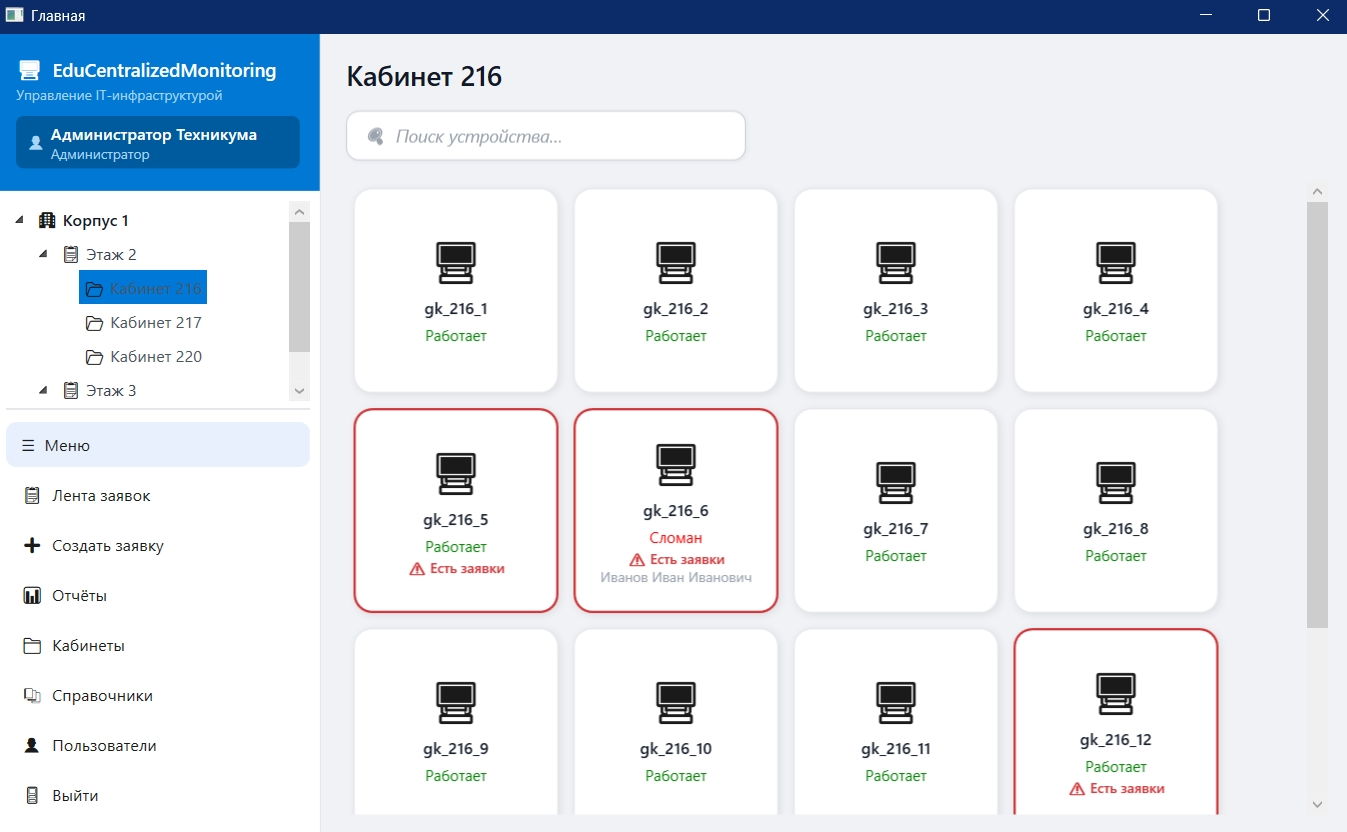
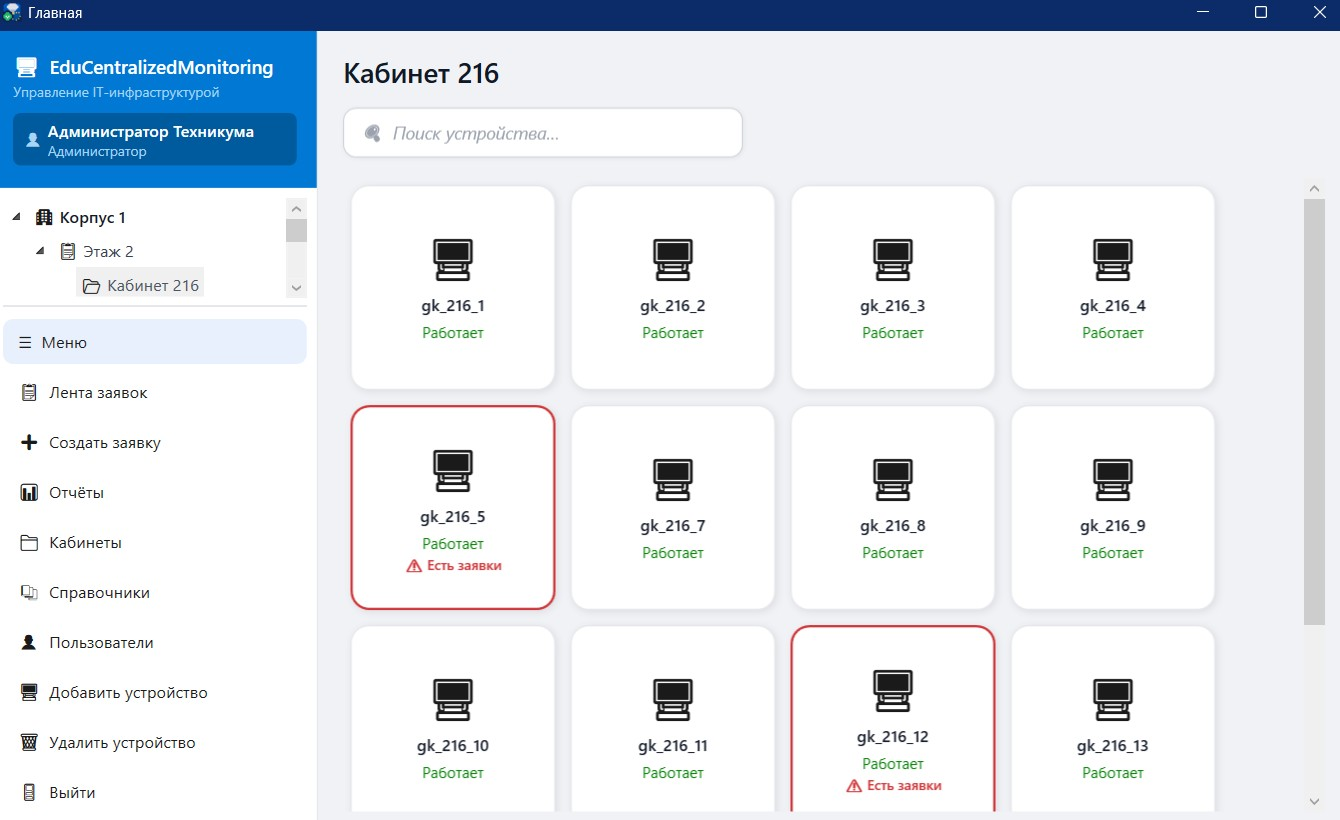
Функция добавления/удаления компьютеров

diff --git a/TechInventory/Views/DeviceEditWindow.xaml b/TechInventory/Views/DeviceEditWindow.xaml
@@ -1,0 +1,58 @@
+<Window x:Class="TechInventory.Views.DeviceEditWindow"
+        xmlns="http://schemas.microsoft.com/winfx/2006/xaml/presentation"
+        xmlns:x="http://schemas.microsoft.com/winfx/2006/xaml"
+        Title="Добавить / изменить устройство"
+        Height="520" Width="420"
+        WindowStartupLocation="CenterOwner"
+        ResizeMode="NoResize"
+        Background="#F0F2F5" FontFamily="Segoe UI">
+    <Window.Resources>
+        <Style TargetType="TextBlock" x:Key="Label">
+            <Setter Property="FontSize" Value="13"/>
+            <Setter Property="Foreground" Value="#374151"/>
+            <Setter Property="Margin" Value="0,0,0,4"/>
+        </Style>
+    </Window.Resources>
+    <Border Background="White" CornerRadius="12" Margin="12" Padding="20">
+        <Grid>
+            <Grid.RowDefinitions>
+                <RowDefinition Height="Auto"/>
+                <RowDefinition Height="Auto"/>
+                <RowDefinition Height="Auto"/>
+                <RowDefinition Height="Auto"/>
+                <RowDefinition Height="Auto"/>
+                <RowDefinition Height="*"/>
+                <RowDefinition Height="Auto"/>
+            </Grid.RowDefinitions>
+
+            <TextBlock Grid.Row="0" Text="Устройство" FontSize="18" FontWeight="SemiBold" Margin="0,0,0,14"/>
+
+            <StackPanel Grid.Row="1" Margin="0,4">
+                <TextBlock Text="Название" Style="{StaticResource Label}"/>
+                <TextBox x:Name="NameBox" Height="36" Padding="10,0"/>
+            </StackPanel>
+
+            <StackPanel Grid.Row="2" Margin="0,4">
+                <TextBlock Text="Тип устройства" Style="{StaticResource Label}"/>
+                <ComboBox x:Name="TypeCombo" Height="36" DisplayMemberPath="Value" SelectedValuePath="ID"/>
+            </StackPanel>
+
+            <StackPanel Grid.Row="3" Margin="0,4">
+                <TextBlock Text="Кабинет" Style="{StaticResource Label}"/>
+                <ComboBox x:Name="RoomCombo" Height="36" DisplayMemberPath="Name" SelectedValuePath="RoomID"/>
+            </StackPanel>
+
+            <StackPanel Grid.Row="4" Margin="0,4">
+                <TextBlock Text="Описание (характеристики)" Style="{StaticResource Label}"/>
+                <TextBox x:Name="SpecsBox" Height="60" TextWrapping="Wrap" AcceptsReturn="True" Padding="8"/>
+            </StackPanel>
+
+            <StackPanel Grid.Row="6" Orientation="Horizontal" HorizontalAlignment="Right" Margin="0,10,0,0">
+                <Button Content="Отмена" Click="CancelButton_Click" Width="90" Margin="0,0,10,0"
+                        Style="{StaticResource SecondaryButtonStyle}"/>
+                <Button Content="Сохранить" Click="SaveButton_Click" Width="100"
+                        Style="{StaticResource AccentButtonStyle}"/>
+            </StackPanel>
+        </Grid>
+    </Border>
+</Window>

diff --git a/TechInventory/Views/MainWindow.xaml b/TechInventory/Views/MainWindow.xaml
@@ -192,6 +192,8 @@
                         <Button Content="📁  Кабинеты" x:Name="RoomsButton" Click="RoomsButton_Click" Style="{StaticResource SidebarButton}" Margin="0,2"/>
                         <Button Content="📚  Справочники" Click="DictionaryButton_Click" Style="{StaticResource SidebarButton}" Margin="0,2"/>
                         <Button Content="👤  Пользователи" x:Name="UsersButton" Click="UsersButton_Click" Style="{StaticResource SidebarButton}" Margin="0,2"/>
+                        <Button Content="🖥  Добавить устройство" x:Name="AddDeviceButton" Click="AddDeviceButton_Click" Style="{StaticResource SidebarButton}" Margin="0,2"/>
+                        <Button Content="🗑  Удалить устройство" x:Name="DeleteDeviceButton" Click="DeleteDeviceButton_Click" Style="{StaticResource SidebarButton}" Margin="0,2"/>
                         <Button Content="🚪  Выйти" Click="LogoutButton_Click" Style="{StaticResource SidebarButton}" Margin="0,2"/>
                     </StackPanel>
                 </StackPanel>

diff --git a/TechInventory/Views/DictionaryWindow.xaml b/TechInventory/Views/DictionaryWindow.xaml
@@ -2,7 +2,7 @@
         xmlns="http://schemas.microsoft.com/winfx/2006/xaml/presentation"
         xmlns:x="http://schemas.microsoft.com/winfx/2006/xaml"
         Title="Справочники"
-        Height="480" Width="680"
+        Height="480" Width="700"
         WindowStartupLocation="CenterOwner"
         Background="#F0F2F5"
         FontFamily="Segoe UI">

diff --git a/TechInventory/Views/DeviceEditWindow.xaml.cs b/TechInventory/Views/DeviceEditWindow.xaml.cs
@@ -1,0 +1,108 @@
+using System;
+using System.Linq;
+using System.Threading.Tasks;
+using System.Windows;
+using Inventory.Core.Interfaces;
+using Inventory.Core.Models;
+
+namespace TechInventory.Views
+{
+    public partial class DeviceEditWindow : Window
+    {
+        private readonly IRoomRepository _roomRepo;
+        private readonly IDictionaryRepository _dictRepo;
+        private readonly IDeviceRepository _deviceRepo;
+        private readonly Device? _existingDevice;
+
+        // Для создания нового устройства
+        public DeviceEditWindow(IRoomRepository roomRepo, IDictionaryRepository dictRepo, IDeviceRepository deviceRepo)
+        {
+            InitializeComponent();
+            _roomRepo = roomRepo;
+            _dictRepo = dictRepo;
+            _deviceRepo = deviceRepo;
+            _existingDevice = null;
+            Loaded += async (s, e) => await LoadCombos();
+        }
+
+        // Для редактирования существующего устройства
+        public DeviceEditWindow(IRoomRepository roomRepo, IDictionaryRepository dictRepo, IDeviceRepository deviceRepo, Device device)
+            : this(roomRepo, dictRepo, deviceRepo)
+        {
+            _existingDevice = device;
+            Title = "Изменить устройство";
+            NameBox.Text = device.Name;
+            SpecsBox.Text = device.Specs ?? "";
+        }
+
+        private async Task LoadCombos()
+        {
+            var types = await _dictRepo.GetByCategoryAsync("DeviceType");
+            TypeCombo.ItemsSource = types;
+            TypeCombo.SelectedIndex = types.Any() ? 0 : -1;
+
+            var rooms = await _roomRepo.GetAllAsync();
+            RoomCombo.ItemsSource = rooms;
+            RoomCombo.SelectedIndex = rooms.Any() ? 0 : -1;
+
+            if (_existingDevice != null)
+            {
+                TypeCombo.SelectedValue = _existingDevice.TypeID;
+                RoomCombo.SelectedValue = _existingDevice.CurrentRoomID;
+            }
+        }
+
+        private async void SaveButton_Click(object sender, RoutedEventArgs e)
+        {
+            if (string.IsNullOrWhiteSpace(NameBox.Text))
+            {
+                MessageBox.Show("Введите название устройства", "Ошибка", MessageBoxButton.OK, MessageBoxImage.Warning);
+                return;
+            }
+            if (TypeCombo.SelectedValue == null || RoomCombo.SelectedValue == null)
+            {
+                MessageBox.Show("Выберите тип и кабинет", "Ошибка", MessageBoxButton.OK, MessageBoxImage.Warning);
+                return;
+            }
+
+            try
+            {
+                if (_existingDevice == null)
+                {
+                    // Создание нового
+                    var newDevice = new Device
+                    {
+                        Name = NameBox.Text.Trim(),
+                        TypeID = (int)TypeCombo.SelectedValue,
+                        CurrentRoomID = (int)RoomCombo.SelectedValue,
+                        Specs = string.IsNullOrWhiteSpace(SpecsBox.Text) ? null : SpecsBox.Text.Trim(),
+                        StatusID = 3   // «Работает»
+                    };
+                    await _deviceRepo.AddAsync(newDevice);
+                }
+                else
+                {
+                    // Редактирование существующего
+                    _existingDevice.Name = NameBox.Text.Trim();
+                    _existingDevice.TypeID = (int)TypeCombo.SelectedValue;
+                    _existingDevice.CurrentRoomID = (int)RoomCombo.SelectedValue;
+                    _existingDevice.Specs = string.IsNullOrWhiteSpace(SpecsBox.Text) ? null : SpecsBox.Text.Trim();
+                    await _deviceRepo.UpdateAsync(_existingDevice);
+                }
+
+                DialogResult = true;
+                Close();
+            }
+            catch (Exception ex)
+            {
+                MessageBox.Show($"Ошибка сохранения устройства: {ex.Message}", "Ошибка", MessageBoxButton.OK, MessageBoxImage.Error);
+            }
+        }
+
+        private void CancelButton_Click(object sender, RoutedEventArgs e)
+        {
+            DialogResult = false;
+            Close();
+        }
+    }
+}

diff --git a/TechInventory/Views/MainWindow.xaml.cs b/TechInventory/Views/MainWindow.xaml.cs
@@ -35,6 +35,8 @@ namespace TechInventory.Views
                 UsersButton.Visibility = Visibility.Collapsed;
                 RoomsButton.Visibility = Visibility.Collapsed;
                 CreateTicketFromMainButton.Visibility = Visibility.Collapsed;
+                AddDeviceButton.Visibility = Visibility.Collapsed;
+                DeleteDeviceButton.Visibility = Visibility.Collapsed;
             }
         }
 
@@ -48,8 +50,12 @@ namespace TechInventory.Views
         {
             if (sender is FrameworkElement element && element.DataContext is DeviceTileViewModel deviceTile)
             {
-                if (DataContext is MainViewModel vm && vm.OpenDeviceCommand.CanExecute(deviceTile))
-                    vm.OpenDeviceCommand.Execute(deviceTile);
+                if (DataContext is MainViewModel vm)
+                {
+                    vm.SelectedTile = deviceTile;   
+                    if (vm.OpenDeviceCommand.CanExecute(deviceTile))
+                        vm.OpenDeviceCommand.Execute(deviceTile);
+                }
             }
         }
 
@@ -122,6 +128,45 @@ namespace TechInventory.Views
                 var loginWindow = new LoginWindow();
                 loginWindow.Show();
                 this.Close();
+            }
+        }
+        private void AddDeviceButton_Click(object sender, RoutedEventArgs e)
+        {
+            var window = new DeviceEditWindow(
+                _services.RoomRepository,
+                _services.DictionaryRepository,
+                _services.DeviceRepository);
+            window.Owner = this;
+            if (window.ShowDialog() == true)
+            {
+                if (DataContext is MainViewModel vm)
+                    _ = vm.RefreshRoomsAsync();  
+            }
+        }
+
+        private void DeleteDeviceButton_Click(object sender, RoutedEventArgs e)
+        {
+            if (DataContext is MainViewModel vm && vm.SelectedRoom != null && vm.SelectedTile != null)
+            {
+                var tile = vm.SelectedTile;
+                if (MessageBox.Show($"Удалить устройство {tile.Name}? Все связанные заявки и перемещения также будут удалены.",
+                    "Подтверждение", MessageBoxButton.YesNo, MessageBoxImage.Warning) == MessageBoxResult.Yes)
+                {
+                    try
+                    {
+                        _services.DeviceRepository.DeleteAsync(tile.DeviceID).Wait();
+                        vm.SelectedTile = null;
+                        _ = vm.RefreshRoomsAsync();
+                    }
+                    catch (Exception ex)
+                    {
+                        MessageBox.Show($"Ошибка удаления: {ex.Message}", "Ошибка", MessageBoxButton.OK, MessageBoxImage.Error);
+                    }
+                }
+            }
+            else
+            {
+                MessageBox.Show("Сначала выберите кабинет, затем кликните на плитку устройства.", "Информация", MessageBoxButton.OK, MessageBoxImage.Information);
             }
         }
     }

diff --git a/Inventory.Core/Inventory.Core/Repositories/DeviceRepository.cs b/Inventory.Core/Inventory.Core/Repositories/DeviceRepository.cs
@@ -100,6 +100,43 @@ public class DeviceRepository : BaseRepository, IDeviceRepository
         return devices;
     }
 
+    public async Task AddAsync(Device device)
+    {
+        using var conn = CreateConnection();
+        await conn.OpenAsync();
+        using var cmd = new SQLiteCommand(
+            @"INSERT INTO Devices (Name, TypeID, Specs, StatusID, CurrentRoomID, PositionInRoom, AssignedToUserID)
+          VALUES (@name, @type, @specs, @status, @room, @pos, @assigned)", conn);
+
+        cmd.Parameters.AddWithValue("@name", device.Name);
+        cmd.Parameters.AddWithValue("@type", device.TypeID);
+        cmd.Parameters.AddWithValue("@specs", (object?)device.Specs ?? DBNull.Value);
+        cmd.Parameters.AddWithValue("@status", device.StatusID);
+        cmd.Parameters.AddWithValue("@room", device.CurrentRoomID);
+        cmd.Parameters.AddWithValue("@pos", (object?)device.PositionInRoom ?? DBNull.Value);
+        cmd.Parameters.AddWithValue("@assigned", (object?)device.AssignedToUserID ?? DBNull.Value);
+        await cmd.ExecuteNonQueryAsync();
+    }
+
+    public async Task DeleteAsync(int deviceId)
+    {
+        using var conn = CreateConnection();
+        await conn.OpenAsync();
+        using (var cmd1 = new SQLiteCommand("DELETE FROM Tickets WHERE DeviceID = @id", conn))
+        {
+            cmd1.Parameters.AddWithValue("@id", deviceId);
+            await cmd1.ExecuteNonQueryAsync();
+        }
+        using (var cmd2 = new SQLiteCommand("DELETE FROM MovementHistory WHERE DeviceID = @id", conn))
+        {
+            cmd2.Parameters.AddWithValue("@id", deviceId);
+            await cmd2.ExecuteNonQueryAsync();
+        }
+        using var cmd3 = new SQLiteCommand("DELETE FROM Devices WHERE DeviceID = @id", conn);
+        cmd3.Parameters.AddWithValue("@id", deviceId);
+        await cmd3.ExecuteNonQueryAsync();
+    }
+
     private Device MapDevice(SQLiteDataReader reader)
     {
         return new Device

diff --git a/TechInventory/ViewModels/MainViewModel.cs b/TechInventory/ViewModels/MainViewModel.cs
@@ -7,6 +7,7 @@ using System.Windows;
 using System.Windows.Input;
 using TechInventory.Helpers;
 using TechInventory.Views;
+using TechInventory.ViewModels;
 
 namespace TechInventory.ViewModels
 {
@@ -28,6 +29,12 @@ namespace TechInventory.ViewModels
         {
             get => _searchText;
             set { SetProperty(ref _searchText, value); ApplyDeviceFilter(); }
+        }
+        private DeviceTileViewModel? _selectedTile;
+        public DeviceTileViewModel? SelectedTile
+        {
+            get => _selectedTile;
+            set => SetProperty(ref _selectedTile, value);
         }
 
         private List<DeviceTileViewModel> _allDeviceTiles = new();

diff --git a/TechInventory/ViewModels/DeviceTileViewModel.cs b/TechInventory/ViewModels/DeviceTileViewModel.cs
@@ -7,7 +7,14 @@
         public string StatusName { get; set; } = "Неизвестно";
         public bool HasOpenTickets { get; set; }
         public string AssignedTo { get; set; } = "";
-        public string TooltipText => $"{Name} — {StatusName}";
         public string Icon { get; set; } = "";
+        public string TooltipText => $"{Name} — {StatusName}";
+
+        private bool _isSelected;
+        public bool IsSelected
+        {
+            get => _isSelected;
+            set => SetProperty(ref _isSelected, value);
+        }
     }
 }

diff --git a/Inventory.Core/Inventory.Core/Interfaces/IDeviceRepository.cs b/Inventory.Core/Inventory.Core/Interfaces/IDeviceRepository.cs
@@ -11,5 +11,7 @@ public interface IDeviceRepository
     Task<IEnumerable<Device>> GetDevicesWithOpenTicketsAsync();
     Task UpdateAsync(Device device);
     Task UpdateStatusAsync(int deviceId, int statusId);
-    Task<List<Device>> GetAllAsync();               
+    Task<List<Device>> GetAllAsync();
+    Task AddAsync(Device device);     
+    Task DeleteAsync(int deviceId);    
 }
